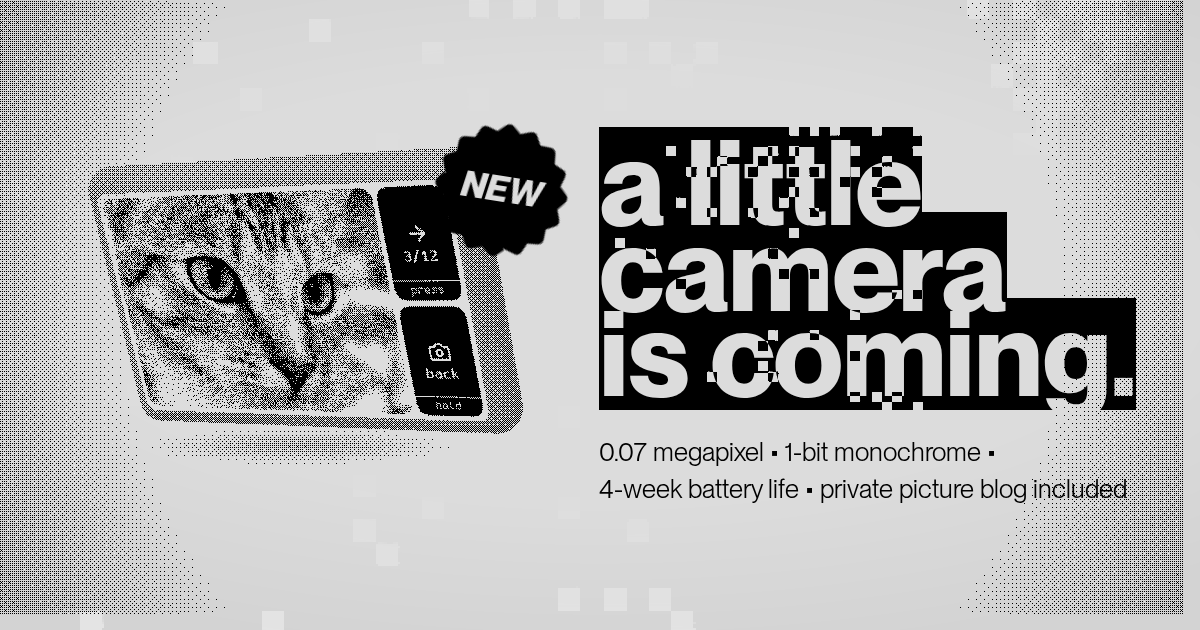
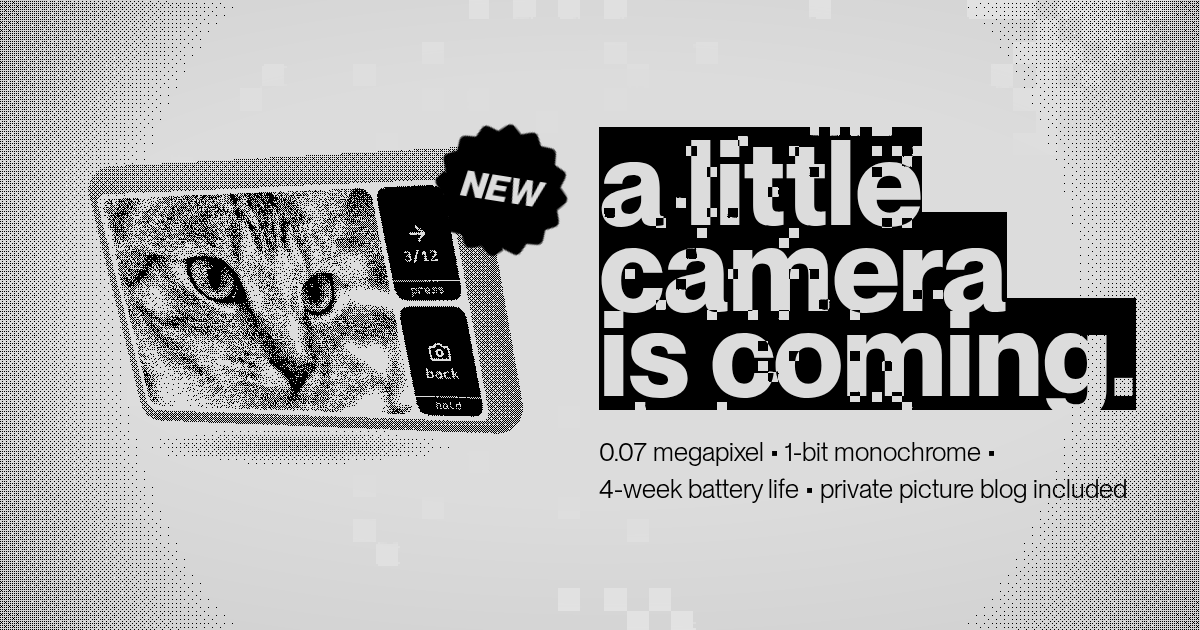
fix(site): the card's ground covers the whole frame
The recipe overrides --gutter to 0 to go full bleed, which grows the box,
but the ground canvas is sized from the box and only repaints on a window
resize -- so it kept the 8px-gutter size and left 16px of bare paper down
the right edge and along the bottom. The recipe calls paintVignette()
alongside sizeGL() now, and og.png is regenerated.

Claude-Session: https://claude.ai/code/session_018Do1eGLFYYJFzp83wMP41s

diff --git a/site/README.md b/site/README.md
@@ -222,7 +222,10 @@ window.draw = function(){
   placeGL(); gl.drawArrays(gl.TRIANGLES, 0, 3);
   requestAnimationFrame(window.draw);
 };
-fitAndMask(); sizeGL();
+// paintVignette too, not just sizeGL: the ground canvas is sized from the box
+// and only repaints on a window resize, so after the --gutter override it keeps
+// the smaller size and leaves bare paper down the right and the bottom.
+fitAndMask(); sizeGL(); paintVignette();
 
 const now = parseFloat(getComputedStyle(by).fontSize);
 if (by.scrollWidth > col) by.style.fontSize = Math.floor(now * col / by.scrollWidth) + 'px';
